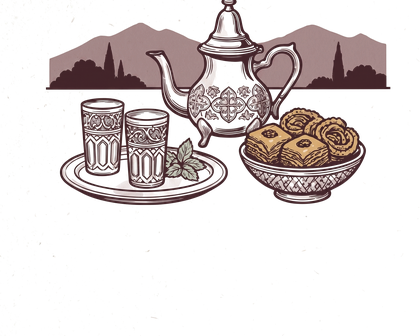
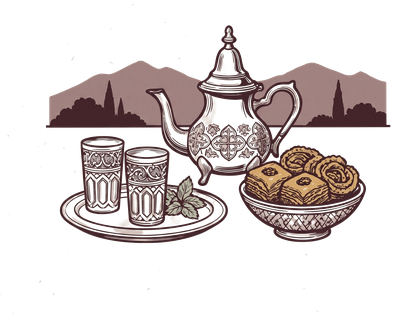
Proper hero fill, re-crop tea from bottom, compact timeline
1. Hero backdrop on ≤640px now uses `background-size: cover` — the
   photo fills the entire hero on every phone size (tested at 390,
   393, 412 widths). Previous `auto 92%` left a visible gradient
   strip above the SCROLL cue.

2. schedule-welcome.png — redone crop preserves the TOP (mountain
   silhouette + teapot finial) and trims from the bottom instead.
   Final 420×315, matches feast/finale ratio (~1.33).

3. Timeline on ≤640px —
     item padding:       1.2rem → 0.6rem
     column gap:         0.9rem → 0.75rem
     time column:        56px → 50px
     thumb column:       140px → 110px max
     dot:                14px → 11px
     title size:         1.2rem → 1.12rem
     body size:          0.92rem → 0.88rem
   Schedule now reads as one tight block instead of five loose rows.

diff --git a/index.html b/index.html
@@ -769,7 +769,7 @@ footer small {
      (landscape images get heavily cropped under `cover` on a portrait phone,
      but `contain` leaves the photo too small — this sits between). */
   .hero-bg-layer {
-    background-size: auto 92%;
+    background-size: cover;
     background-repeat: no-repeat;
     background-position: center top;
     transform: none;
@@ -796,12 +796,14 @@ footer small {
   .countdown-num { font-size: 1.8rem; }
   .countdown-label { font-size: 0.55rem; letter-spacing: 0.22em; margin-top: 0.5rem; }
 
-  /* Schedule */
-  .schedule-timeline::before { left: calc(56px + 0.9rem); }
-  .schedule-item { grid-template-columns: 56px 0.9rem 1fr; column-gap: 0.9rem; padding: 1.2rem 0; }
-  .schedule-time { font-size: 0.95rem; }
-  .schedule-body h3 { font-size: 1.2rem; }
-  .schedule-body-text p { font-size: 0.92rem; }
+  /* Schedule — compacter rhythm so all items sit close together */
+  .schedule-timeline::before { left: calc(50px + 0.75rem); }
+  .schedule-item { grid-template-columns: 50px 0.75rem 1fr; column-gap: 0.75rem; padding: 0.6rem 0; }
+  .schedule-time { font-size: 0.9rem; padding-top: 0.05rem; }
+  .schedule-dot { width: 11px; height: 11px; margin-top: 0.55rem; box-shadow: 0 0 0 3px var(--sky-a), 0 0 14px 2px color-mix(in srgb, var(--accent) 50%, transparent); }
+  .schedule-body { grid-template-columns: minmax(90px, 110px) 1fr; column-gap: 1rem; }
+  .schedule-body h3 { font-size: 1.12rem; margin-bottom: 0.2rem; }
+  .schedule-body-text p { font-size: 0.88rem; line-height: 1.5; max-width: 46ch; }
 
   /* Details — stack cards, ease padding */
   .details-grid { grid-template-columns: 1fr; gap: 1.2rem; }
